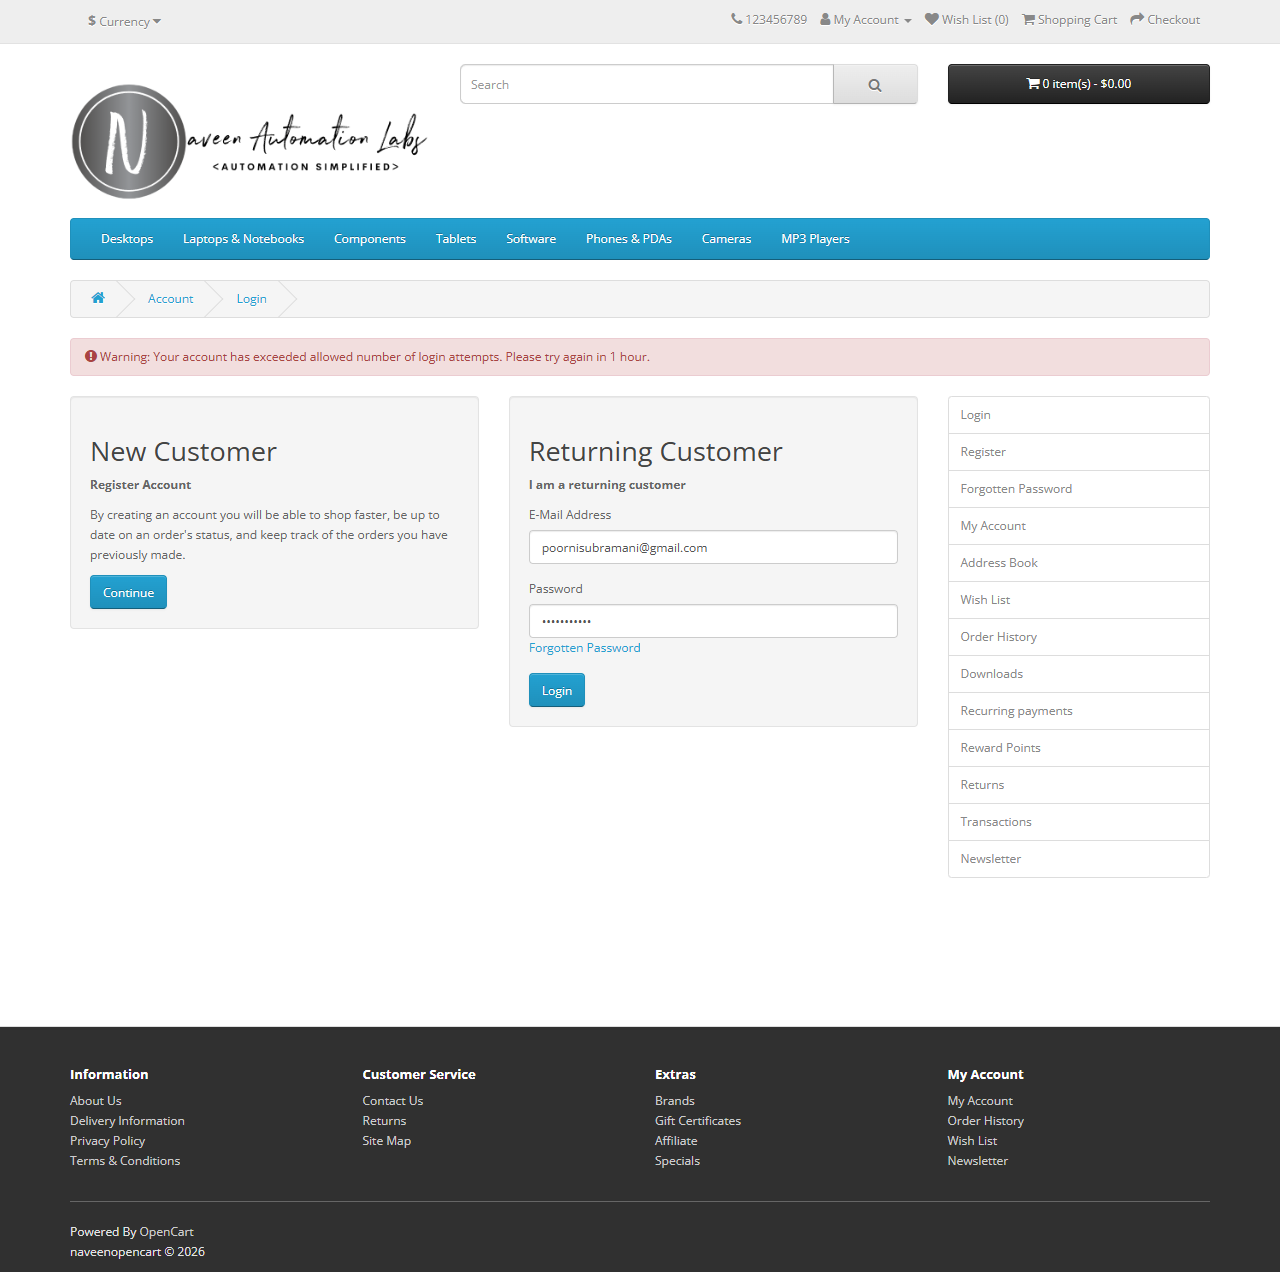
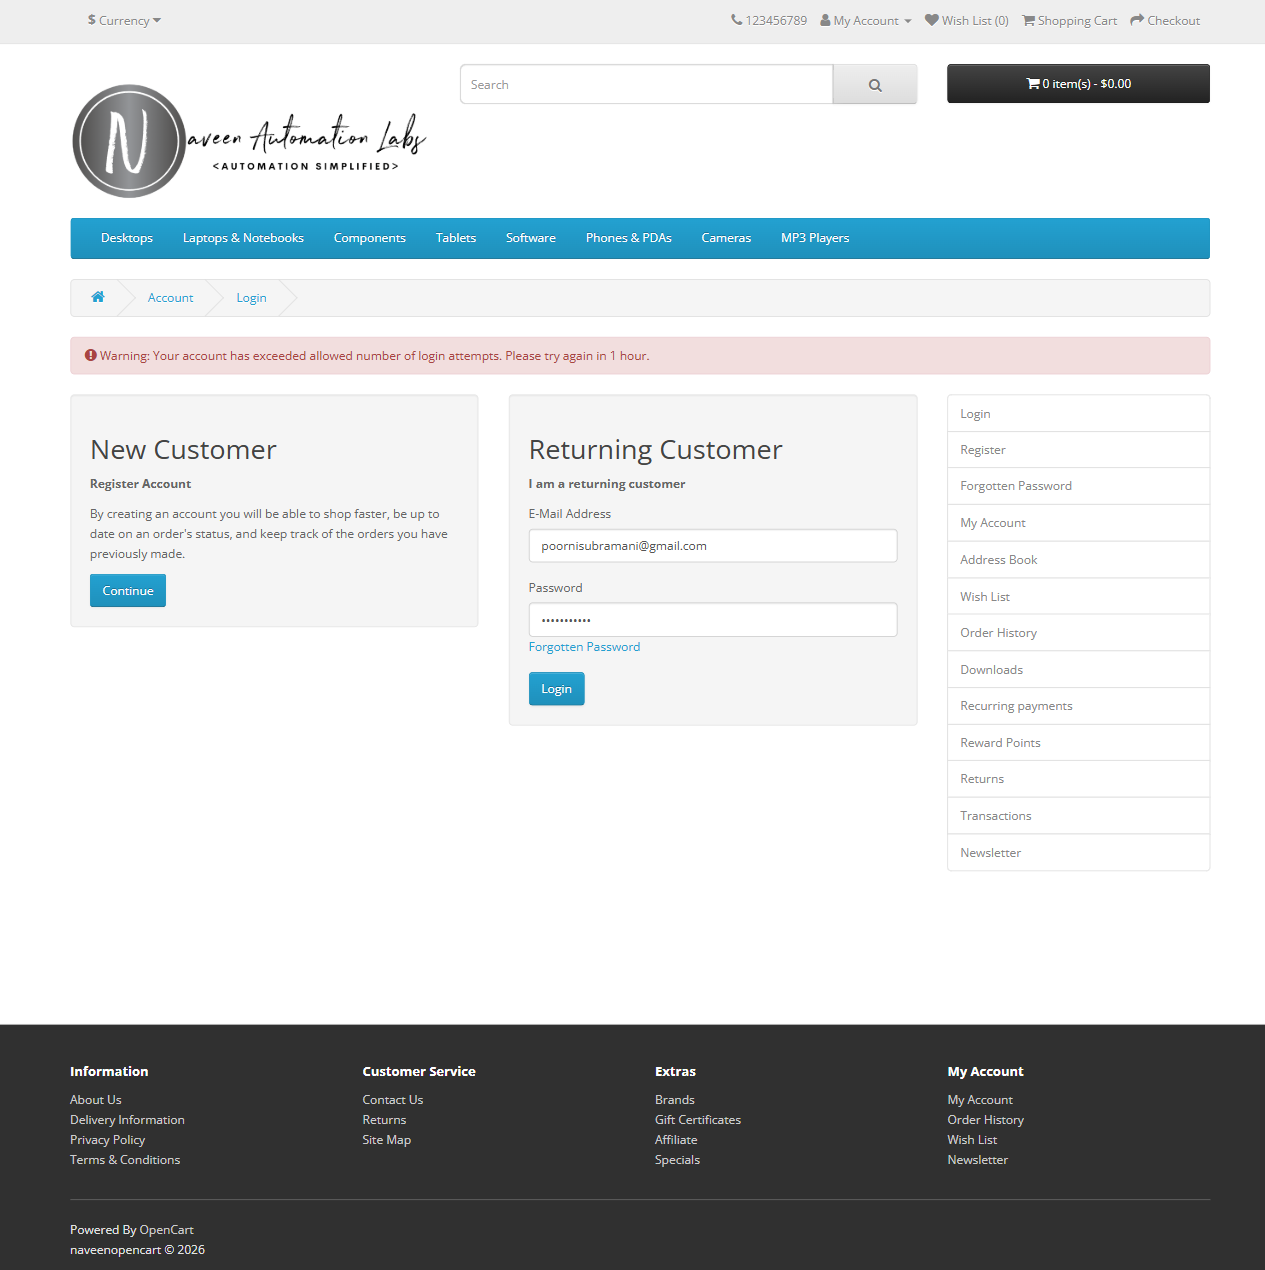
'updated

diff --git a/tests/example.spec.ts b/tests/example.spec.ts
@@ -2,10 +2,9 @@ import { test, expect, chromium, Browser, Page, BrowserContext } from '@playwrig
 
 test('has title', async ({  }) => {
 
-  const browser:Browser = await chromium.launch();
+  /*const browser:Browser = await chromium.launch();
   const browsercontext_1=await browser.newContext();
   const page=await browsercontext_1.newPage();
-  page.waitForTimeout(5000);
   await page.goto('https://naveenautomationlabs.com/opencart/index.php?route=account/login');
   const username1=await page.locator('#input-email');
   const password1=await page.locator('#input-password')
@@ -17,5 +16,5 @@ test('has title', async ({  }) => {
   expect(await page.title()).toEqual('Account Login');
   // no explicit browser variable in Playwright test fixtures; page will be closed by the test runner
   await browsercontext_1.close();
-  await browser.close();
+  await browser.close();*/
 });

diff --git a/tests/test-2.spec.ts b/tests/test-2.spec.ts
@@ -1,7 +1,7 @@
-import { test, expect } from '@playwright/test';
+// import { test, expect } from '@playwright/test';
 
-test('test', async ({ page }) => {
-  await page.goto('https://www.google.com/');
-  await page.getByRole('button', { name: 'Accept all' }).click();
-  await page.getByRole('combobox', { name: 'Search' }).fill('playwright')
-});
+// test('test', async ({ page }) => {
+//   await page.goto('https://www.google.com/');
+//   await page.getByRole('button', { name: 'Accept all' }).click();
+//   await page.getByRole('combobox', { name: 'Search' }).fill('playwright')
+// });

diff --git a/tests/hover and clicks.spec.ts b/tests/hover and clicks.spec.ts
@@ -14,7 +14,7 @@ import {test,expect,Browser,Page, chromium} from '@playwright/test';
     const ourProgram = page.getByText('Visa ').first();
     //await ourProgram.waitFor({ state: 'visible' });
     await ourProgram.click();
-    await page.waitForTimeout(5000);
+  
     
    });
 

diff --git a/tests/API1.spec.ts b/tests/API1.spec.ts
@@ -1,0 +1,9 @@
+import {test,expect} from '@playwright/test';
+
+const token='reqres_a0404be7b6ae444b95591ed787637f82'
+const url='https://reqres.in/api/users';
+
+test(postreques, async({request})==>{
+
+    
+})
